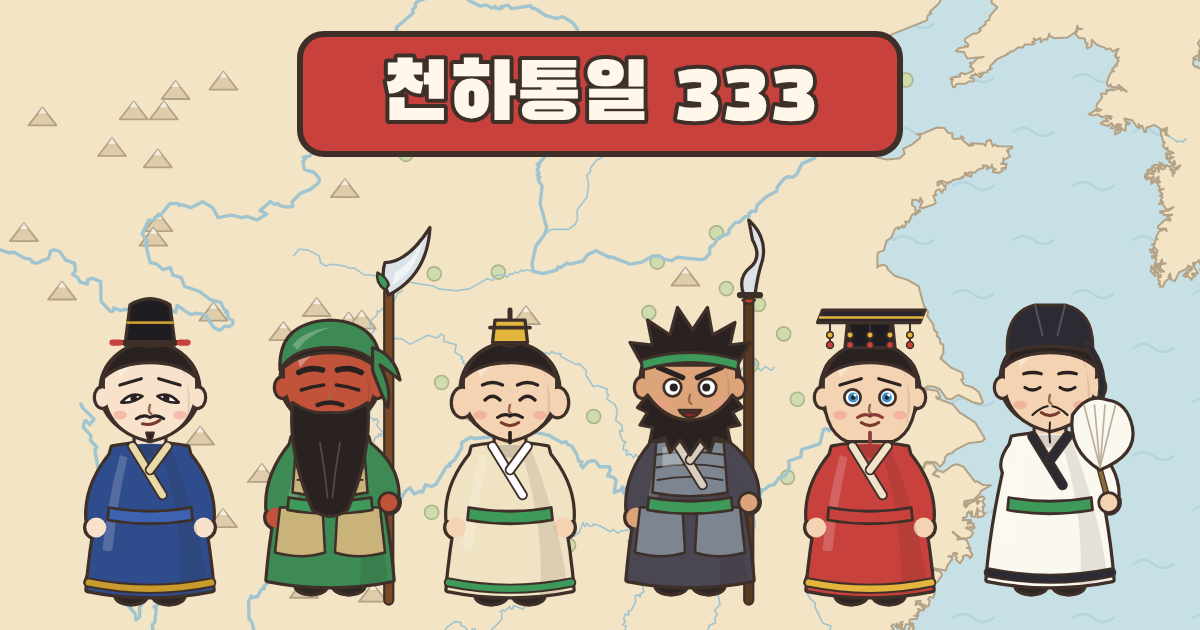
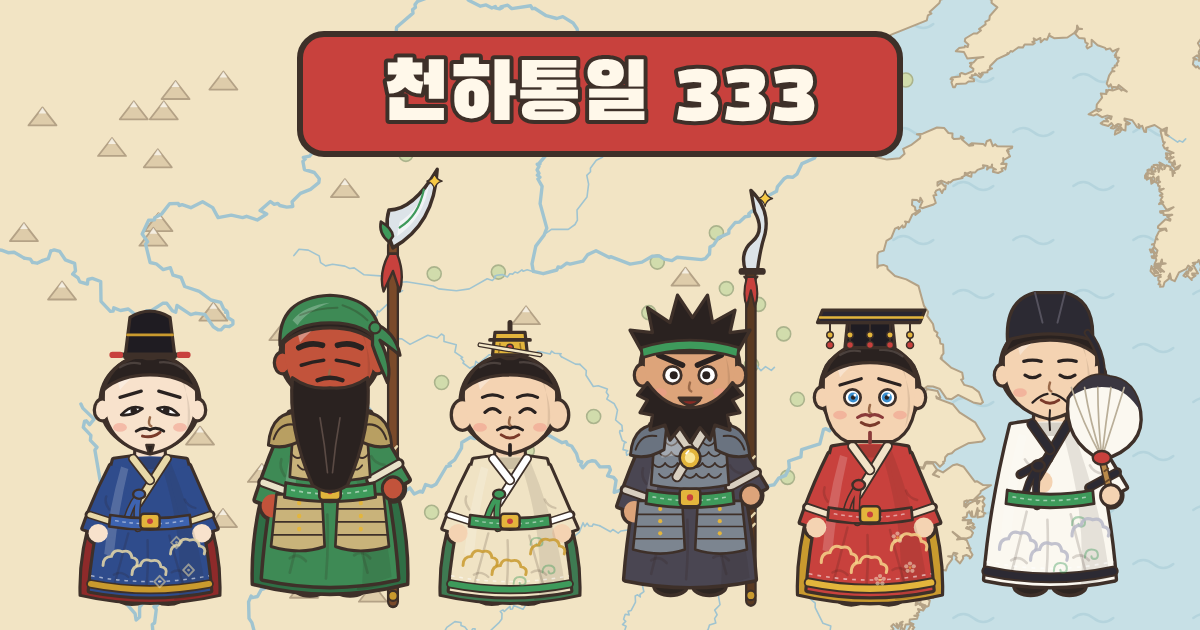
222. 천하통일 333 아이콘 · 카톡 미리보기 새로

Changed region(s): [[0.0617, 0.2714, 0.9558, 0.9651], [0.8325, 0.4524, 0.925, 0.5127]]

diff --git a/333/index.html b/333/index.html
@@ -4,16 +4,16 @@
 <meta name="apple-mobile-web-app-status-bar-style" content="black-translucent">
 <meta name="apple-mobile-web-app-title" content="천하통일 333">
 <meta name="theme-color" content="#C8413D">
-<link rel="apple-touch-icon" sizes="180x180" href="icon-304fdd7e-180.png">
-<link rel="apple-touch-icon-precomposed" sizes="180x180" href="icon-304fdd7e-180.png">
-<link rel="icon" type="image/png" sizes="192x192" href="icon-304fdd7e-192.png">
+<link rel="apple-touch-icon" sizes="180x180" href="icon-deb51c5c-180.png">
+<link rel="apple-touch-icon-precomposed" sizes="180x180" href="icon-deb51c5c-180.png">
+<link rel="icon" type="image/png" sizes="192x192" href="icon-deb51c5c-192.png">
 <script>if('serviceWorker' in navigator){addEventListener('load',()=>{navigator.serviceWorker.register('sw.js').catch(()=>{});setTimeout(()=>navigator.serviceWorker.ready.then(r=>r.active&&r.active.postMessage('fill')).catch(()=>{}),4000);});}</script>
 <meta name="robots" content="noindex,nofollow">
-<meta name="description" content="도원결의부터 천하통일까지! 삼국지 8장 모험 · 보스 스테이지 8개 · 인물 카드 71장 · 고사성어 22개 · 장수 대결 · 삼국지 월드컵 · 족보 그리기 · 연대표">
+<meta name="description" content="도원결의부터 천하통일까지! 삼국지 8장 모험 · 보스 스테이지 8개 · 인물 카드 71장 · 고사성어 22개 · 장수 대결 · 적토마 퀴즈쇼 · 삼국지 월드컵 · 족보 그리기 · 연대표">
 <meta property="og:type" content="website">
 <meta property="og:title" content="천하통일 333 - 삼국지 인물 · 고사성어 · 한자를 배우는 게임">
-<meta property="og:description" content="도원결의부터 천하통일까지! 삼국지 8장 모험 · 보스 스테이지 8개 · 인물 카드 71장 · 고사성어 22개 · 장수 대결 · 삼국지 월드컵 · 족보 그리기 · 연대표">
-<meta property="og:image" content="https://zdogame.com/333/og.png?v=5b299400">
+<meta property="og:description" content="도원결의부터 천하통일까지! 삼국지 8장 모험 · 보스 스테이지 8개 · 인물 카드 71장 · 고사성어 22개 · 장수 대결 · 적토마 퀴즈쇼 · 삼국지 월드컵 · 족보 그리기 · 연대표">
+<meta property="og:image" content="https://zdogame.com/333/og.png?v=6ce6b3f0">
 <meta property="og:image:width" content="1200">
 <meta property="og:image:height" content="630">
 <meta property="og:url" content="https://zdogame.com/333/">
@@ -584,7 +584,7 @@ pic: '연못 물고기가 헤엄치고, 연못가 유비 · 제갈량이 웃음,
 dangrang: { ko: '당랑포선', hz: '螳螂捕蟬', ch: 5, chars: [['螳', '사마귀 당'], ['螂', '사마귀 랑'], ['捕', '잡을 포'], ['蟬', '매미 선']],
 mean: '눈앞 이익만 보다 뒤에서 노리는 위험을 놓치는 것', scene: '적벽에서 맞붙기 전날 밤, 서로가 서로를 노리는 장면에 이 말을 붙였어요.',
 who: ['caocao', 'liubei', 'sunquan'], origin: '원래는 옛 책 『설원』에 나오는 매미 · 사마귀 · 참새 이야기예요.', wrong: ['gyeogan', 'gyeruk'],
-pic: '나뭇가지에 매미, 그 뒤 앞발 든 사마귀, 그 뒤 고개 내민 참새', src: '5000yan 설원 · 장면 = 집 책(개발자 확인)' },
+pic: '나뭇가지에 매미, 그 뒤 앞발 든 사마귀, 그 뒤 고개 내민 참새', src: '5000yan 설원 · 장면 = 기준 책' },
 goyuk: { ko: '고육지계', hz: '苦肉之計', ch: 5, chars: [['苦', '쓸 고'], ['肉', '고기 육'], ['之', '갈 지'], ['計', '꾀 계']],
 mean: '자기 몸이 아픈 것을 참으면서까지 상대를 속이는 꾀', scene: '황개가 주유와 짜고 일부러 크게 혼난 뒤, 조조에게 "억울해서 항복하겠다"는 거짓 편지를 보냈어요.',
 who: ['huanggai', 'zhouyu', 'caocao'], novel: true, wrong: ['heoheo', 'manjeon'],
@@ -612,7 +612,7 @@ pic: '밥상 위 작은 닭갈비를 젓가락으로 든 조조가 고민하는 
 naejo: { ko: '내조지공', hz: '內助之功', ch: 7, chars: [['內', '안 내'], ['助', '도울 조'], ['之', '갈 지'], ['功', '공 공']],
 mean: '아내가 집안에서 남편을 잘 도와 이룬 공', scene: '곽씨가 조비에게 지혜로운 조언을 해 조비가 뒤를 잇도록 도왔어요.',
 who: ['caopi', 'guohou'], wrong: ['sueo', 'manjeon'],
-pic: '방 안에서 부인이 남편에게 두루마리를 건네며 귓속말, 남편이 끄덕', src: 'W-곽여왕 · 장면 = 집 책(개발자 확인)' },
+pic: '방 안에서 부인이 남편에게 두루마리를 건네며 귓속말, 남편이 끄덕', src: 'W-곽여왕 · 장면 = 기준 책' },
 chilbo: { ko: '칠보지재', hz: '七步之才', ch: 7, chars: [['七', '일곱 칠'], ['步', '걸음 보'], ['之', '갈 지'], ['才', '재주 재']],
 mean: '일곱 걸음 걷는 사이에 시를 지을 만큼 뛰어난 글재주', scene: '조비가 동생 조식에게 일곱 걸음 안에 시를 지으라고 했어요. 조식은 콩과 콩대로 "한 뿌리 형제끼리 왜 괴롭히나"를 노래했어요.',
 who: ['caopi', 'caozhi'], origin: '역사책이 아니라 후대의 책 『세설신어』에 나오는 이야기예요.', wrong: ['baekmi', 'dokseo'],

diff --git a/333/sw.js b/333/sw.js
@@ -1,5 +1,5 @@
-const C='333-r3-33bae884fc24', A='333-assets';
-const FILES=['./','index.html','manifest.webmanifest','icon-304fdd7e-180.png','icon-304fdd7e-192.png','icon-304fdd7e-512.png'];
+const C='333-r3-be6230d4ea7f', A='333-assets';
+const FILES=['./','index.html','manifest.webmanifest','icon-deb51c5c-180.png','icon-deb51c5c-192.png','icon-deb51c5c-512.png'];
 const ASSETS=["voice/SG1_1.mp3", "voice/SG1_2.mp3", "voice/SG1_3.mp3", "voice/SG1_4.mp3", "voice/SG1_5.mp3", "voice/SG2_1.mp3", "voice/SG2_2.mp3", "voice/SG2_3.mp3", "voice/SG2_4.mp3", "voice/SG2_5.mp3", "voice/SG3_1.mp3", "voice/SG3_2.mp3", "voice/SG3_3.mp3", "voice/SG3_4.mp3", "voice/SG4_1.mp3", "voice/SG4_2.mp3", "voice/SG4_3.mp3", "voice/SG4_4.mp3", "voice/SG5_1.mp3", "voice/SG5_2.mp3", "voice/SG5_3.mp3", "voice/SG5_4.mp3", "voice/SG6_1.mp3", "voice/SG6_2.mp3", "voice/SG6_3.mp3", "voice/SG6_4.mp3", "voice/SG6_5.mp3", "voice/SG7_1.mp3", "voice/SG7_2.mp3", "voice/SG7_3.mp3", "voice/SG7_4.mp3", "voice/SG7_5.mp3", "voice/SG8_1.mp3", "voice/SG8_2.mp3", "voice/SG8_3.mp3", "voice/SG8_4.mp3", "voice/SGE_1.mp3", "voice/SGE_2.mp3", "voice/SGE_3.mp3", "voice/SGE_4.mp3", "voice/SGP_1.mp3", "voice/SGP_2.mp3", "voice/SGP_3.mp3", "voice/SGP_4.mp3", "voice/SGT_1.mp3"];
 let filling=null;
 function fill(){ if(filling) return filling; filling=caches.open(A).then(async c=>{
